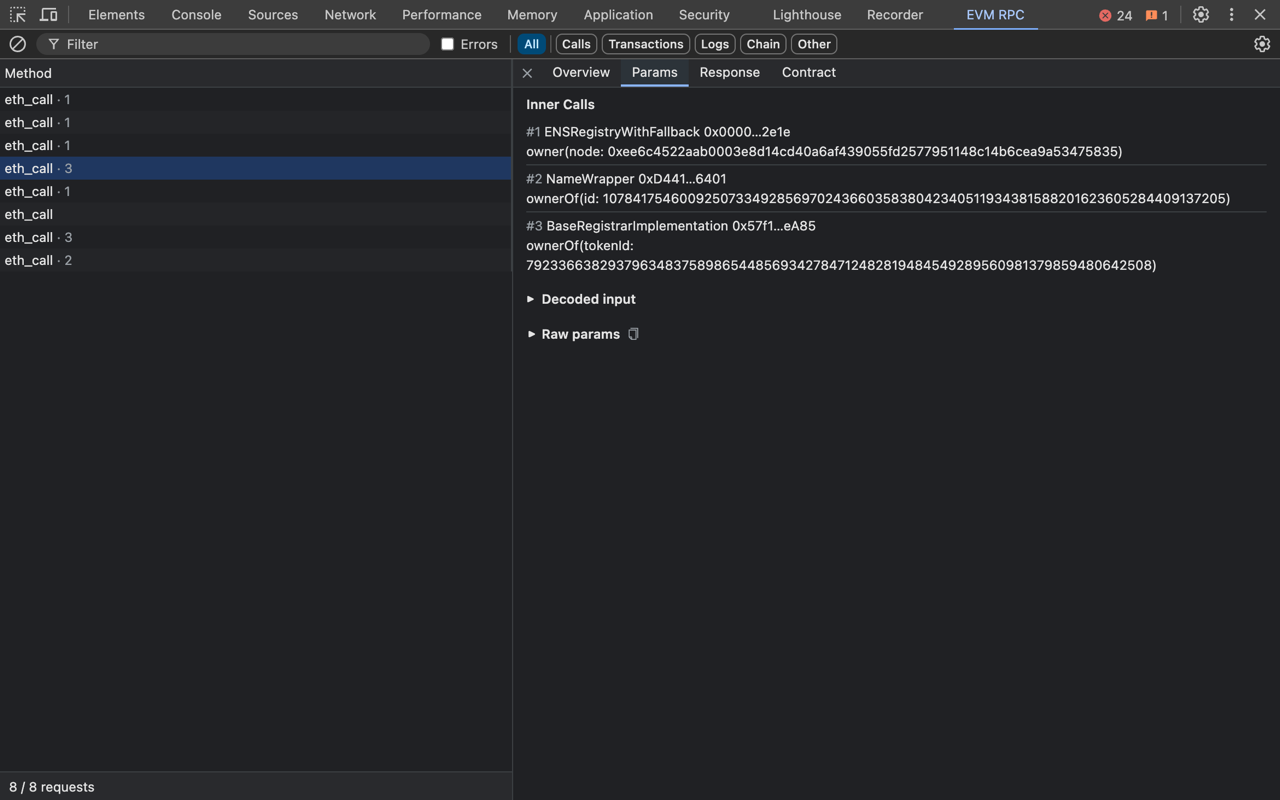
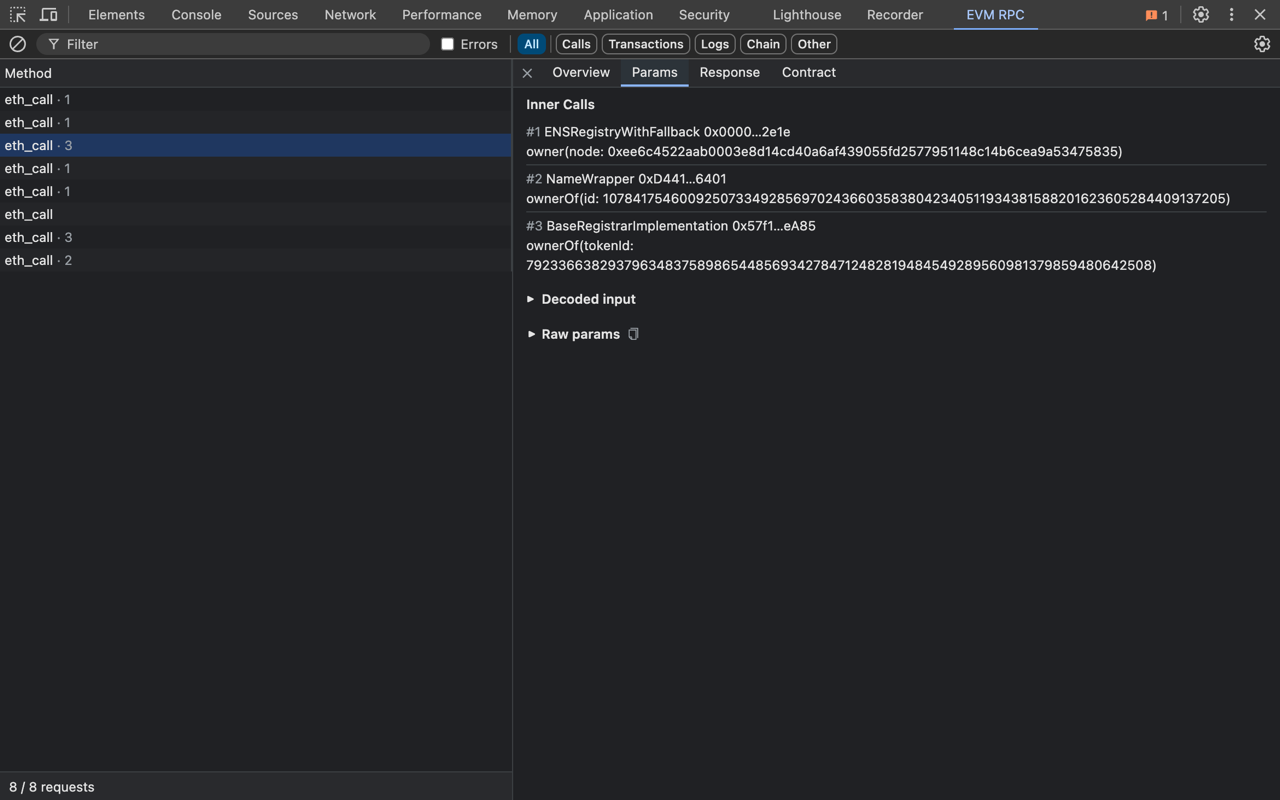
Address review of the store listing
The description and the data-use answers name the requests to the page's
own RPC endpoint; tick Website content; GLOSSARY terms; the Multicall
screenshot picks its row by all three cells and has no console badge.

Refs #8

Claude-Session: https://claude.ai/code/session_016CEXaz4V39QPTefZMNKuie

Changed region(s): [[0.0, 0.1562, 0.4062, 0.25], [0.8438, 0.0, 0.875, 0.0312]]

diff --git a/store/listing.md b/store/listing.md
@@ -24,12 +24,12 @@ FEATURES
 • Fetches verified ABIs from Sourcify automatically, and from Etherscan with your own API key. Proxies (EIP-1967 and those Sourcify resolves) decode with their implementation's ABI.
 • Opens up Multicall3 and Multicall2: every inner call with its target contract, function, arguments and result.
 • Decodes reverts: Error(string), Panic codes and custom errors, including errors bubbled up from other known contracts.
-• Shows the chain by name, and links addresses, transactions and blocks to the chain's block explorer.
+• Shows the chain by name, and links addresses, transactions and blocks to the chain's explorer, such as Etherscan.
 • Add your own ABI: a JSON array, a Hardhat or Foundry artifact, an Etherscan getabi response or human-readable lines such as "function balanceOf(address) view returns (uint256)".
-• Filter by text, by errors and by kind (calls, transactions, logs, chain, other), and move through the list with the keyboard, like the Network tab.
+• Filter by text, by errors and by method category (calls, transactions, logs, chain, other), and move through the list with the keyboard, like the Network tab.
 
 PRIVACY
-The extension needs only the "storage" permission and requests no host access. Captured traffic stays in memory and is never sent anywhere. To fetch an ABI, only the contract address and chain id are sent to Sourcify, and to Etherscan if you enter a key; both are public on chain. Automatic fetching can be turned off. No analytics, no tracking.
+The extension needs only the "storage" permission and requests no host access. Captured traffic stays in memory and is never sent anywhere. To decode calls, the extension sends contract addresses and the chain id, which are public on chain, to Sourcify, and to Etherscan with your API key if you enter one. It also asks the page's own RPC endpoint for its chain id and, to find a proxy's implementation, reads the proxy's EIP-1967 slots there. Automatic ABI fetching can be turned off. No analytics, no tracking.
 
 Open source under the MIT license: https://github.com/ahiipsa/web3-devtools-extension
 ```
@@ -66,7 +66,11 @@ Saves the user's contracts (address, name and ABI) and the panel's settings (aut
 
 **Remote code**: No, I am not using remote code. (All JavaScript ships in the package; Sourcify and Etherscan return JSON ABIs only.)
 
-**Data usage**: tick none of the categories. Captured traffic stays in memory on the device. The only data that leaves it are contract addresses and chain ids, which are public on chain, to Sourcify and Etherscan, and one `eth_chainId` request to the page's own RPC endpoint (see `PRIVACY.md`).
+**Data usage**: tick **Website content** only, and nothing else. Captured traffic stays in memory on the device, but the contract addresses taken from it leave the device, so a reviewer may count them as website content even though they are public on chain; ticking it costs nothing and avoids a rejection. What leaves the device (see `PRIVACY.md`):
+
+- to Sourcify: contract addresses and chain ids;
+- to Etherscan, only with the user's key: contract addresses, chain ids and the key itself, sent to the service that issued it (not "Authentication information" collected by the developer);
+- to the page's own RPC endpoint: one `eth_chainId`, and for a possible proxy up to two `eth_getStorageAt` reads of its EIP-1967 slots and one beacon `implementation()` call.
 
 **Certifications**: tick all three (no sale of data, no use unrelated to the single purpose, no use for creditworthiness or lending).
 
